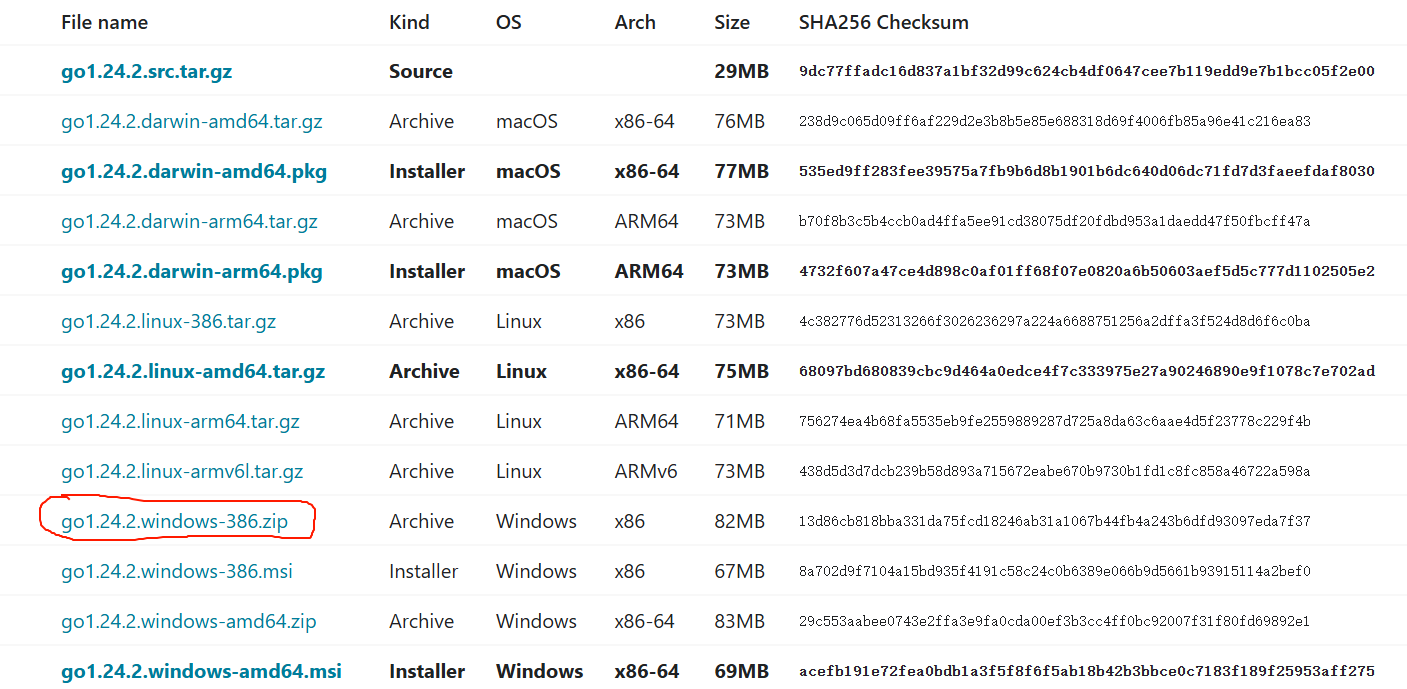
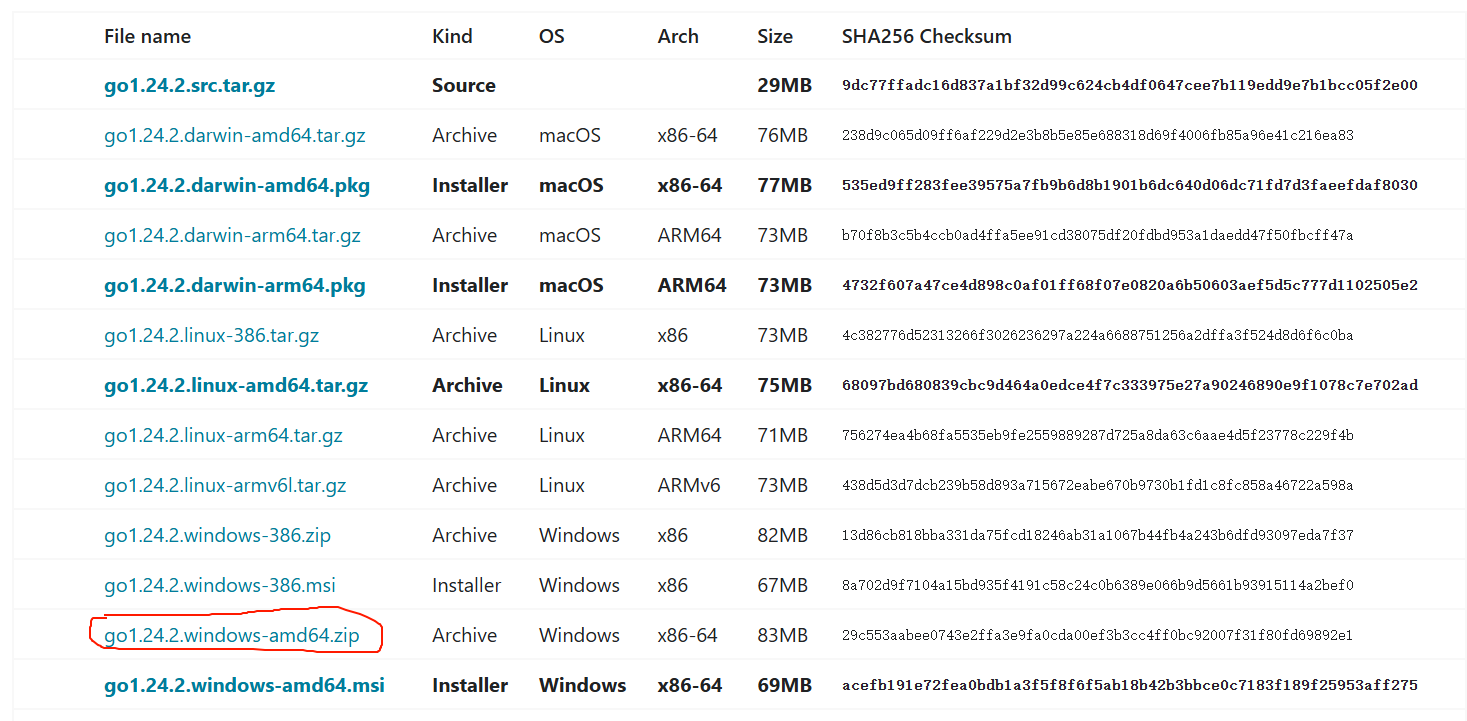
docs(快速入门):添加并更新环境安装部分的图片和文档

diff --git a/00-快速入门/环境安装.md b/00-快速入门/环境安装.md
@@ -1,14 +1,16 @@
 ## 环境安装
-### 安装Go
-本机环境
-本机系统: Windows 11系统
+### 1. 安装Go
+**本机环境**
+本机系统: Windows 11 x86-64系统
 Go版本: 1.24.2
 安装方式: zip压缩包
-下载地址: [https://golang.google.cn/dl/](https://golang.google.cn/dl/)，这里我选择zip压缩包的方式安装。
+**下载地址:** [https://golang.google.cn/dl/](https://golang.google.cn/dl/)，这里我选择zip压缩包的方式安装。
 ![zip](./images/02-环境安装/2_01.png)
-安装路径: `D:\Program Files\Go\go1.24.2`，解压后，内容如下:
+**安装路径:** `D:\Program Files\Go\go1.24.2`，解压后，内容如下:
 ![go1.24.2](./images/02-环境安装/2_02.png)
-配置系统环境变量
+
+**配置系统环境变量**
+
 1. GOROOT: Go的安装路径，用全局执行Go的相关命令。
      ![GOROOT](./images/02-环境安装/2_03.png)
      path中也需要配置
@@ -28,3 +30,41 @@ go version
 ```
 ![go version](./images/02-环境安装/2_08.png)
 **这样就代表Go的环境已经安装成功！！！**
+
+### 2. 入门案例
+新建一个文件夹，命名为`hello`，运行`go mod init hello`，初始化Go的模块，会在当前文件夹下生成一个`go.mod`文件，内容如下:
+```bash
+go mod init hello
+```
+![go mod init hello](./images/02-环境安装/2_09.png)
+新建一个`main.go`文件，内容如下:
+```go
+// package 定义包名 main 包名
+package main
+
+// import 引用库 fmt 库名
+import "fmt"
+
+// func 定义函数 main 函数名
+func main() {
+	// fmt 包名 . 调用 Print 函数,并且输出定义的字符串
+	fmt.Print("Hello, World!")
+}
+```
+运行`go run main.go`，会输出`Hello, World!`，代表Go的环境已经安装成功！！！
+![main.go](./images/02-环境安装/2_10.png)
+
+### 3. 开发工具
+**Goland**
+GoLand 是 JetBrains 公司推出的 Go 语言集成开发环境，与我们用的 WebStorm、PhpStorm、PyCharm 是一家，同样支持 Windows、Linux、macOS 等操作系统。
+下载地址: [https://www.jetbrains.com/go](https://www.jetbrains.com.cn/)
+软件是付费的，网上有激活教程。
+**VS Code** 
+
+下载地址: [https://code.visualstudio.com/](https://code.visualstudio.com/)
+![vscode](./images/02-环境安装/2_11.png)
+### 4. 学习网站
+* Go语言：https://golang.org/
+* Go语言中文网：https://studygolang.com/
+* Go语言包管理：https://gopm.io/
+* 地鼠文档：https://www.topgoer.cn/
